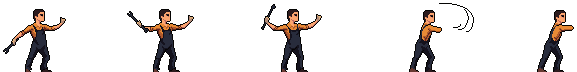
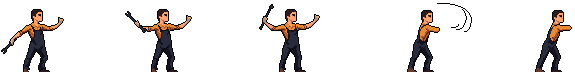
적 피해 애니메이션 추가

diff --git a/enemy.py b/enemy.py
@@ -147,26 +147,33 @@ class Attack:
 
 class Hurt:
     image = None
-    sizes = []
+    sizes =  [(0, 37), (123, 41), (249, 42)]
     def __init__(self, enemy):
         self.enemy = enemy
         if Hurt.image == None:
             Hurt.image = load_image('./적/남자1(근)/Hurt.png')
 
     def enter(self, e):
-        pass
+        self.enemy.dir = 1
 
     def exit(self, e):
         pass
 
     def do(self):
-        pass
+        self.enemy.frame = (self.enemy.frame + FRAMES_PER_ACTION * ACTION_PER_TIME * game_framework.frame_time) % 3
 
     def draw(self):
-        pass
+        left, width = Hurt.sizes[int(self.enemy.frame)]
+        bottom = 0
+        height = 67
+        if self.enemy.face_dir == -1:
+            Hurt.image.clip_composite_draw(left, bottom, width, height, 0, 'h', self.enemy.x, self.enemy.y, 120, 180)
+        else:
+            Hurt.image.clip_composite_draw(left, bottom, width, height, 0, '', self.enemy.x, self.enemy.y, 120, 180)
 
     def get_bb(self):
-        pass
+        return self.enemy.x - 35, self.enemy.y - 90, self.enemy.x + 35, self.enemy.y + 90
+
 
 class Dead:
     image = None
@@ -205,13 +212,15 @@ class Enemy:
         self.RUN = Run(self)
         self.WALK = Walk(self)
         self.ATTACK = Attack(self)
+        self.HURT = Hurt(self)
         self.state_machine = StateMachine(
-            self.ATTACK,
+            self.HURT,
             {
                 self.IDLE : {time_out: self.RUN},
                 self.RUN : {time_out: self.IDLE},
                 self.WALK : {time_out: self.IDLE},
-                self.ATTACK : {time_out: self.IDLE}
+                self.ATTACK : {time_out: self.IDLE},
+                self.HURT : {time_out: self.IDLE}
             }
         )
 
